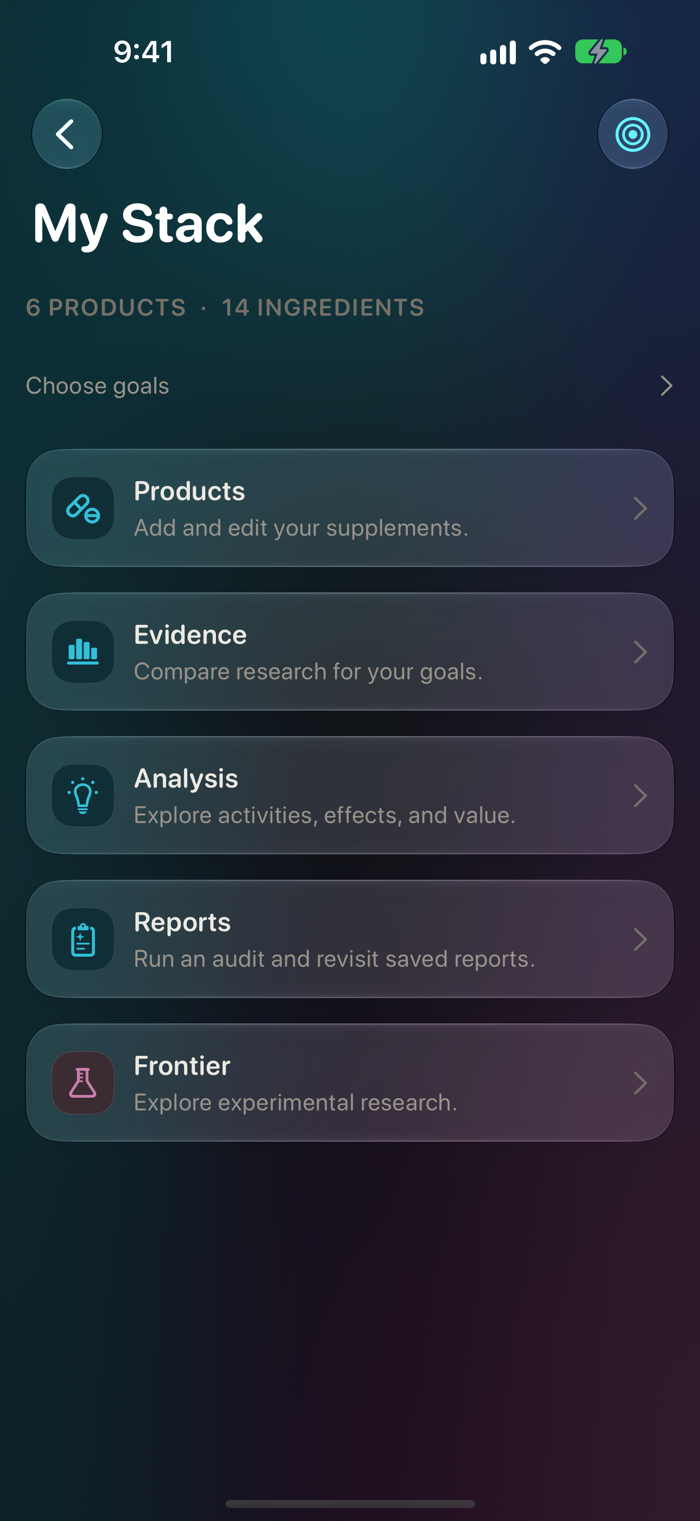
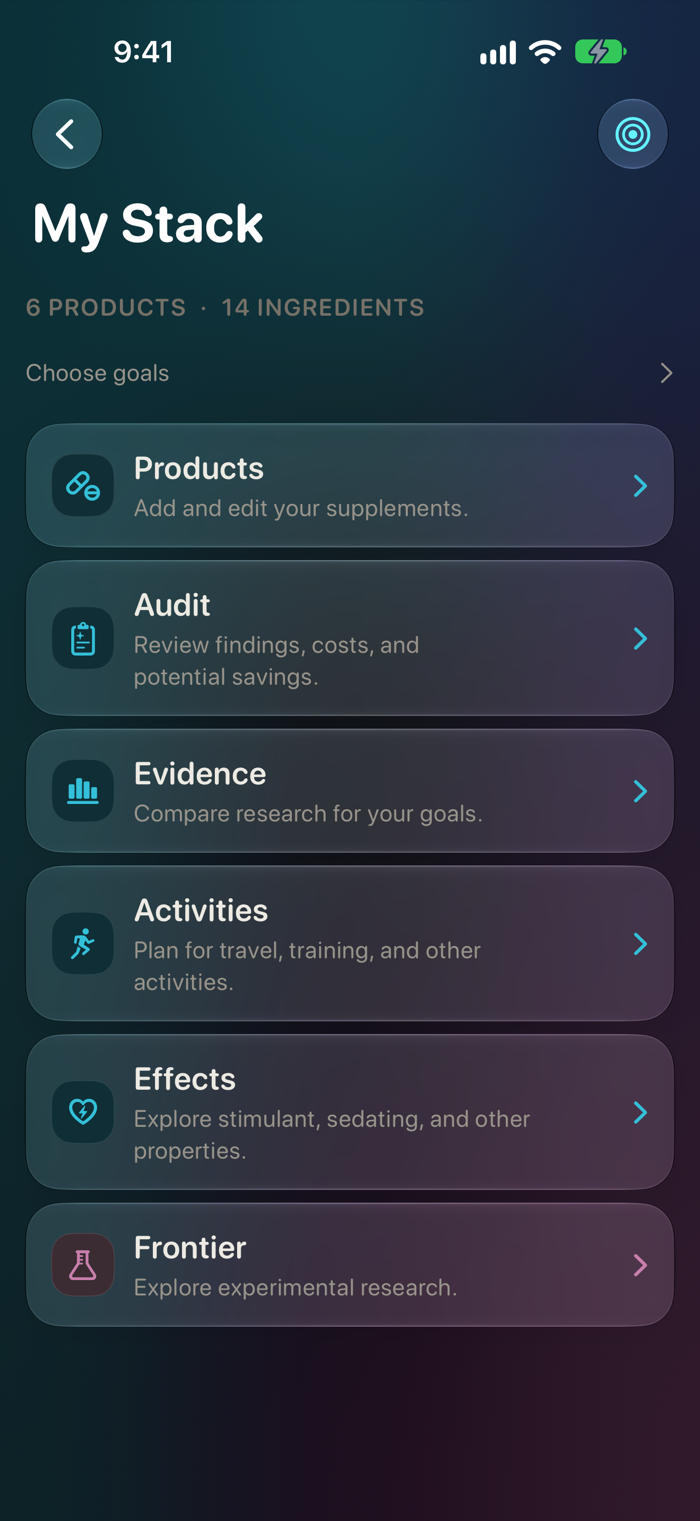
feat: refresh Auditly website for 4.1.0

Changed region(s): [[0.03, 0.2163, 0.96, 0.8961], [0.33, 0.9888, 0.69, 1.0]]

diff --git a/auditly.html b/auditly.html
@@ -325,7 +325,7 @@
     <div class="copy">
       <div class="eyebrow">The audit</div>
       <h2>A clear, cautious read on your stack.</h2>
-      <p>Run an audit and Auditly gives every product a plain verdict - Keep, Cut, or Replace - and explains why in non-medical language:</p>
+      <p>Open Audit and Auditly gives every product a plain verdict - Keep, Cut, or Replace - and explains why in non-medical language:</p>
       <ul class="checklist">
         <li><span class="ck">✓</span>Ingredients that overlap across more than one product</li>
         <li><span class="ck">✓</span>Labeled dose gauges that put your entered amounts alongside studied ranges and upper limits</li>
@@ -334,7 +334,7 @@
         <li><span class="ck">✓</span>Research summaries and citations beneath dose context, so you can explore the evidence for your goals</li>
       </ul>
       <p style="font-size:16.5px;color:#4A4640;margin-top:20px">Every finding is computed on your device by the same rules every time, cited to a source you can open, and stamped with the rule and evidence-library versions it ran under. The same stack gives you the same answer, not a fresh opinion each time you ask.</p>
-      <p class="fineprint" style="margin-top:22px">Your complete report is free: product verdicts, overlap details, dose concerns, clinician flags, spending breakdowns, and the daily schedule. Re-audit your stack and export your report at no cost.</p>
+      <p class="fineprint" style="margin-top:22px">Your current audit is free: product verdicts, overlap details, dose concerns, clinician flags, spending breakdowns, and the daily schedule. Results update when your products, goals, or health context change. Export a dated PDF at no cost.</p>
     </div>
     <div class="shot"><div class="device device--phone"><img src="/auditly/img/iphone-verdicts.png" alt="The audit report verdicts" loading="lazy"></div></div>
   </div>
@@ -343,11 +343,11 @@
 <!-- ===== FEATURE 4 - VALUE ===== -->
 <section class="feature tinted reverse">
   <div class="grid">
-    <div class="shot"><div class="device device--pad"><img src="/auditly/img/ipad-value.png" alt="The Value lens, showing monthly spend broken down by how strong the human evidence behind each product is" loading="lazy"></div></div>
+    <div class="shot"><div class="device device--pad"><img src="/auditly/img/ipad-value.png" alt="Cost &amp; value inside Audit, showing monthly spend broken down by how strong the human evidence behind each product is" loading="lazy"></div></div>
     <div class="copy">
-      <div class="eyebrow">Value</div>
+      <div class="eyebrow">Cost &amp; value</div>
       <h2>See what your money is standing on.</h2>
-      <p>A monthly total is a spreadsheet. What you actually want to know is whether the $92 is buying anything. The Value lens splits your spend two ways: by <strong>how strong the human research is</strong> behind each product for the goals you picked, and by <strong>what job each one is doing</strong> - covered elsewhere in your stack, overlapping but still filling a gap, or the only source you have.</p>
+      <p>A monthly total is a spreadsheet. What you actually want to know is whether the $92 is buying anything. Open Cost &amp; value inside Audit to explore your spend two ways: by <strong>how strong the human research is</strong> behind each product for the goals you picked, and by <strong>what job each one is doing</strong> - covered elsewhere in your stack, overlapping but still filling a gap, or the only source you have.</p>
       <p style="font-size:16.5px;color:#4A4640;margin-top:20px">A band describes the research behind a product, not whether it is worth taking - and every band names itself in its own words, so "animal studies only" appears as a fact rather than as a ranking. Free, computed live, and on the report and the PDF too.</p>
     </div>
   </div>
@@ -368,11 +368,11 @@
 <!-- ===== FEATURE 6 - ACTIVITIES ===== -->
 <section class="feature tinted reverse">
   <div class="grid">
-    <div class="shot"><div class="device device--phone"><img src="/auditly/img/iphone-activities.png" alt="The Activities list - pick an occasion to see what to take" loading="lazy"></div></div>
+    <div class="shot"><div class="device device--phone"><img src="/auditly/img/iphone-activities.png" alt="The Activities list - explore supplement research for an occasion" loading="lazy"></div></div>
     <div class="copy">
       <div class="eyebrow">Activities</div>
       <h2>Pick the occasion, see the plan.</h2>
-      <p>A lifting session, a focus block, race day, a flight, a fast, a rough night, the first sign of a cold. Auditly shows which of the supplements you already own have research behind them for that moment, what may be worth adding, and when to take it. Every suggestion cites at least one human study.</p>
+      <p>Open Activities directly from your stack. Choose a lifting session, a focus block, race day, a flight, a fast, a rough night, or the first sign of a cold. Auditly shows which of the supplements you already own have research behind them for that moment, what may be worth adding, and when to take it. Every suggestion cites at least one human study.</p>
     </div>
   </div>
 </section>
@@ -383,7 +383,7 @@
     <div class="copy">
       <div class="eyebrow">Effects</div>
       <h2>Explore the studied effects.</h2>
-      <p>The Effects view reads your stack by effect rather than by product: what's sedating, what's a stimulant, what may be hard on an empty stomach, what could nudge your blood pressure. Tap any effect to see which of your supplements carry it and the research behind it.</p>
+      <p>Open Effects directly from your stack to explore studied properties. The view reads your stack by effect rather than by product: what's sedating, what's a stimulant, what may be hard on an empty stomach, what could nudge your blood pressure. Tap any effect to see which of your supplements carry it and the research behind it.</p>
     </div>
     <div class="shot"><div class="device device--phone"><img src="/auditly/img/iphone-effects.png" alt="The Effects screen - your stack read by effect, with the supplements behind each one" loading="lazy"></div></div>
   </div>
@@ -419,7 +419,7 @@
     <div class="copy">
       <div class="eyebrow">More room on iPad</div>
       <h2>Your whole stack, side by side.</h2>
-      <p>On iPad, a persistent stack sidebar keeps Products, Evidence, Analysis, Reports, and Frontier within reach. Compare ingredient evidence across goals, browse your products, or open a saved report in its own workspace. Narrow the window and keep your place. Same private app, more room to think.</p>
+      <p>On iPad, a persistent stack sidebar keeps Products, Audit, Evidence, Activities, Effects, and Frontier within reach. Compare ingredient evidence across goals, browse your products, or explore your current audit in its own workspace. Narrow the window and keep your place. Same private app, more room to think.</p>
       <div style="margin-top:30px"><a class="badge" href="https://apps.apple.com/us/app/auditly/id6780102394"><img src="/appstore-badge.svg" alt="Download on the App Store" style="height:54px"></a></div>
     </div>
     <div class="shot"><div class="device device--pad"><img src="/auditly/img/ipad-stack.png" alt="Auditly stack workspace on iPad with products beside the stack sidebar" loading="lazy"></div></div>

diff --git a/auditly/support.html b/auditly/support.html
@@ -168,7 +168,7 @@ footer .disc { display: block; max-width: 560px; margin: 12px auto 0; color: #8E
       <p>No. Auditly is free. There are no affiliate links, no sponsored products, and no way for a brand to pay for a better verdict or a place in what you are shown. &ldquo;Buy nothing&rdquo; is always a valid result of an audit.</p>
 
       <h2 style="font-size:17px;color:var(--ink)">Is Auditly free?</h2>
-      <p>Yes. As of version 3.1, full reports, product verdicts, overlap details, daily schedules, re-audits, PDF exports, and Frontier research are free for everyone. There are no in-app purchases, subscriptions, or accounts.</p>
+      <p>Yes. Current audits, product verdicts, overlap details, daily schedules, PDF exports, and Frontier research are free for everyone. Open Audit from your stack for results that update when your products, goals, or health context change. There are no in-app purchases, subscriptions, or accounts.</p>
 
       <h2 style="font-size:17px;color:var(--ink)">Is automatic label reading unlimited?</h2>
       <p>No. Automatic label reading uses a cloud service and is subject to shared service limits. If it is temporarily unavailable, you can still look up a barcode or enter the label by hand. Your saved stack and on-device reports remain available.</p>

diff --git a/index.html b/index.html
@@ -246,7 +246,7 @@
       <div class="grid-3">
         <article class="card">
           <div class="card__shot"><img src="/auditly/img/iphone-report.png" alt="The audit report showing savings, duplicates, dose flags and verdicts"></div>
-          <h4>Run an audit</h4>
+          <h4>Open your audit</h4>
           <p>Overlapping ingredients, doses worth a closer look, and where overlap may be costing you money.</p>
         </article>
         <article class="card">
